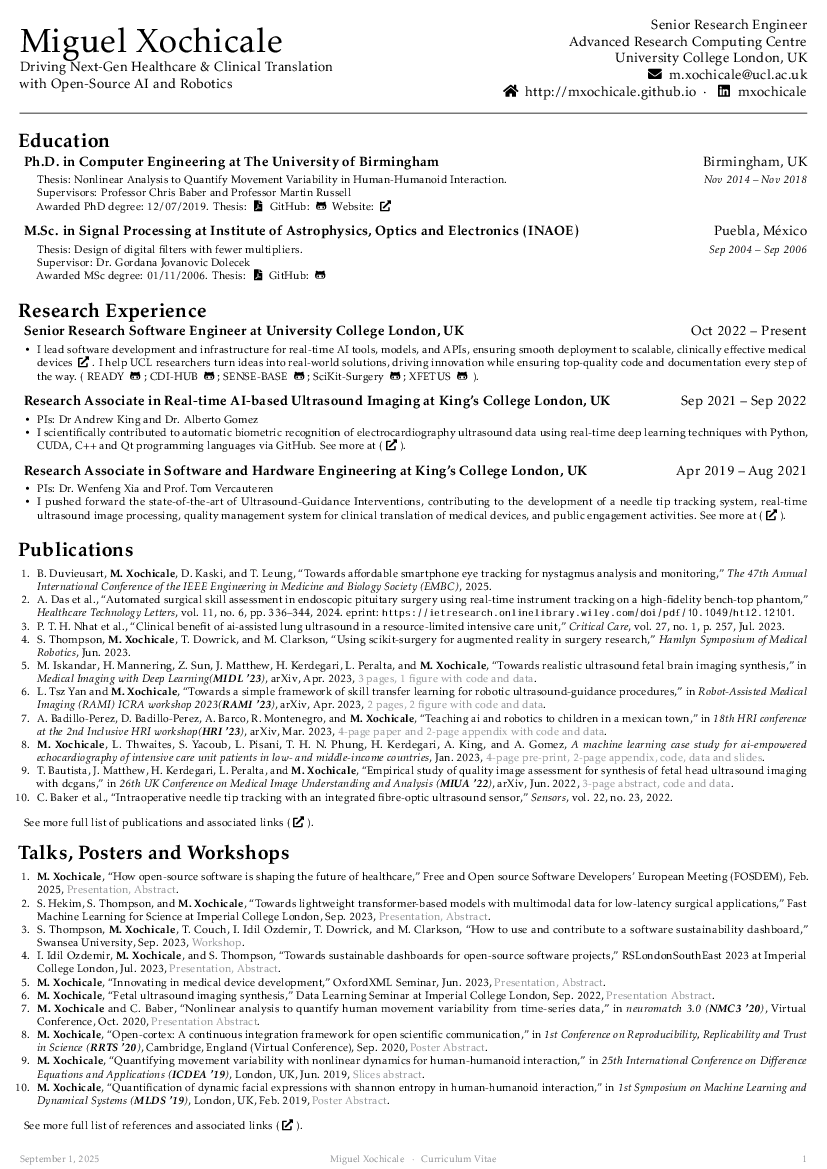
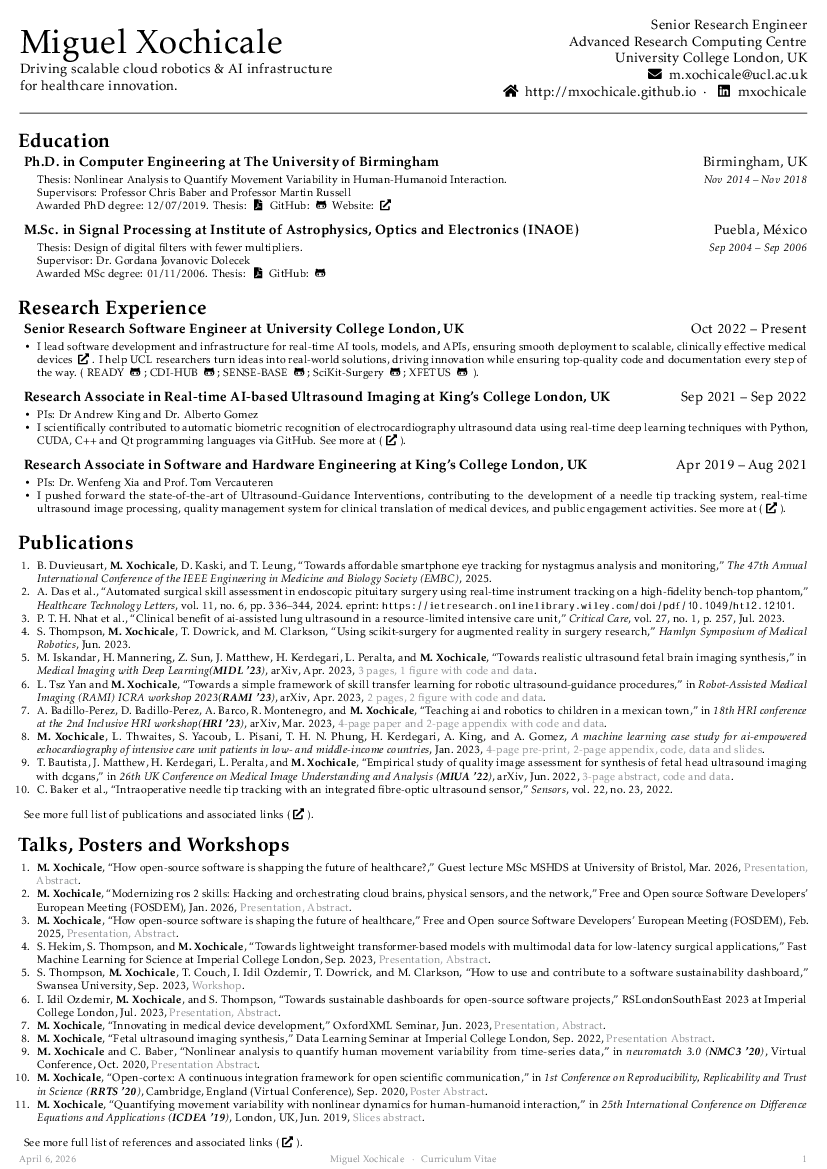
48 - april2026 (#49)
* :tada: version april2026 is ready CICV2P #48
* adds png pages, a few changes to pdf2png bash and main readme #48

diff --git a/tex/cv-two-pages.tex b/tex/cv-two-pages.tex
@@ -3,7 +3,8 @@
 \name{Miguel Xochicale}
 \researchinterest{
 \\ 
-Driving Next-Gen Healthcare \& Clinical Translation with Open-Source AI and Robotics
+Driving scalable cloud robotics \& AI infrastructure for healthcare innovation.
+%Driving Next-Gen Healthcare \& Clinical Translation with Open-Source AI and Robotics
 %Driving the next generation of real-time AI tools for medical technology, surgical innovation, robotics, biomechanics, and clinical translation.
 }
 
@@ -173,7 +174,7 @@ See more full list of references and associated links \href{https://github.com/m
 \begin{itemize}
 
 	\item Co-supervision of PhD student Kelechi Imediegwu from the UCL Global Business School for Health
-			%\textit{Project: }
+			\textit{Passed Upgrade Viva March 2026}
 		\printdate{Oct 25'~--~Sep 27'}
 
 	\item Co-supervision of PhD student Elvira Cortese from the UCL Queen Square Institute of Neurology
@@ -367,11 +368,9 @@ Small Acorns Fund by the The National Hospital and The Institute of Neurology fo
 
 \item My project of a low-cost robot was selected among 125 applications received from 35 countries and presented at the 1st international public entrepreneurship program in Mexico (MECATE 2015). \href{http://let-emprendimientopublico.mx/en/portfolio_category/mecate-primera-generacion-en/}{\faExternalLink*} \href{https://www.youtube.com/watch?v=VjVGnwD422g}{\faYoutube} \printdate{20-24/07/2015}
 
-\item I was awarded with a Ph.D. scholarship by the Mexican National Council on Science and Technology and the University of Birmingham. \printdate{11/2014-11/2018}
+% \item I was awarded with a Ph.D. scholarship by the Mexican National Council on Science and Technology and the University of Birmingham. \printdate{11/2014-11/2018}
 
-\item 
-
-Markovito's team was awarded the first place of HOME category at the Mexican Tournament of Robotics 2013, presenting a Human-Robot Interaction Dance Demo \href{https://www.youtube.com/watch?v=Kw-lZam_qZI}{\faYoutube} \printdate{25-27/05/2013}
+% \item Markovito's team was awarded the first place of HOME category at the Mexican Tournament of Robotics 2013, presenting a Human-Robot Interaction Dance Demo \href{https://www.youtube.com/watch?v=Kw-lZam_qZI}{\faYoutube} \printdate{25-27/05/2013}
 
 %\item I won a M.Sc. scholarship by the Mexican National Council on Science and Technology. \printdate{09/2004-09/2006}
 \end{itemize}
@@ -399,7 +398,8 @@ CUDA Programming [2021-present],
 Docker [2024-present],
 python-based linting [2022-present],
 aws tools \href{https://github.com/UCL-CDI/cdi-hub/tree/main/tutorials/aws-services/aws-batch}{\faGithub*} [Oct2024-present],
-NVIDIA Isaac Sim, Isaac Lab and ROS2 \href{https://github.com/mxochicale/nvidia-open-source-robot-lab}{\faGithub*} [Jan2025-present].
+NVIDIA Isaac Sim, Isaac Lab and ROS2 \href{https://github.com/mxochicale/nvidia-open-source-robot-lab}{\faGithub*} [Jan2025-present],
+Kubernetes distributed trainer [Jan2026-present].
 
 \item[Tools and hardware] 
 Single-board computers and microcontrollers (NVIDIA Jetson Nano, RaspberryPi, BeagleBone, Arduino \& PIC)[2010-present],
@@ -437,6 +437,11 @@ BSI 60825-14 Safety of laser products.
 %  \entry{Outreach activities and scientific engagement}{Sep 2019~--~Present}
 %\end{positions}
 \begin{itemize}
+
+
+\item Lead organiser of "From Code to Care: Challenges, Success Stories, and the Future Directions of Open-Source development in Medical Robotics" at the Hamlym Symp. on Medical Robotics 2026.
+	\href{https://www.hamlynsymposium.org/events/from-code-to-care-challenges-success-stories-and-the-future-directions-of-open-source-development-in-medical-robotics/}{\faExternalLink*}.
+	\printdate{Jan 26' -- Oct 26'}.
 
 \item Lead organiser of "Open-Source Software for Surg, BioMed and AI Tech 3" at the Hamlym Symp. on Medical Robotics 2025.
 	\href{https://www.hamlynsymposium.org/events/healing-through-collaboration-open-source-software-in-surgical-biomedical-and-ai-technologies/}{\faExternalLink*}.
@@ -498,10 +503,12 @@ BSI 60825-14 Safety of laser products.
 \item Demoing Human-Robot Activities at the Undergraduate Open Days. 
 	GitHub: \href{https://github.com/mxochicale/opendayuob-hridemo}{\faGithub*}. 
 	\printdate{2014--2018}
-\item Coordinator of the Science Seminars for the Mexican Society.  
-	GitHub: \href{https://github.com/MexicanSocietyUoB}{\faGithub*}, 
-	Website: \href{https://mexicansocietyuob.github.io/seminars/}{\faExternalLink*}. 
-	\printdate{2017--2018}
+
+%\item Coordinator of the Science Seminars for the Mexican Society.  
+%	GitHub: \href{https://github.com/MexicanSocietyUoB}{\faGithub*}, 
+%	Website: \href{https://mexicansocietyuob.github.io/seminars/}{\faExternalLink*}. 
+%	\printdate{2017--2018}
+
 %\end{itemize}
 
 

diff --git a/README.md b/README.md
@@ -1,4 +1,4 @@
-# :scroll: My Curriculum Vitae (Dec 2025)
+# :scroll: My Curriculum Vitae
 
 [![GitHub Actions Status](https://github.com/mxochicale/cv/workflows/CICV2P/badge.svg)](https://github.com/mxochicale/cv/actions) [![CV](https://img.shields.io/badge/read_my-CV-blue.svg)](https://github.com/mxochicale/cv/blob/generated-pdfs/cv-two-pages.pdf)
 
